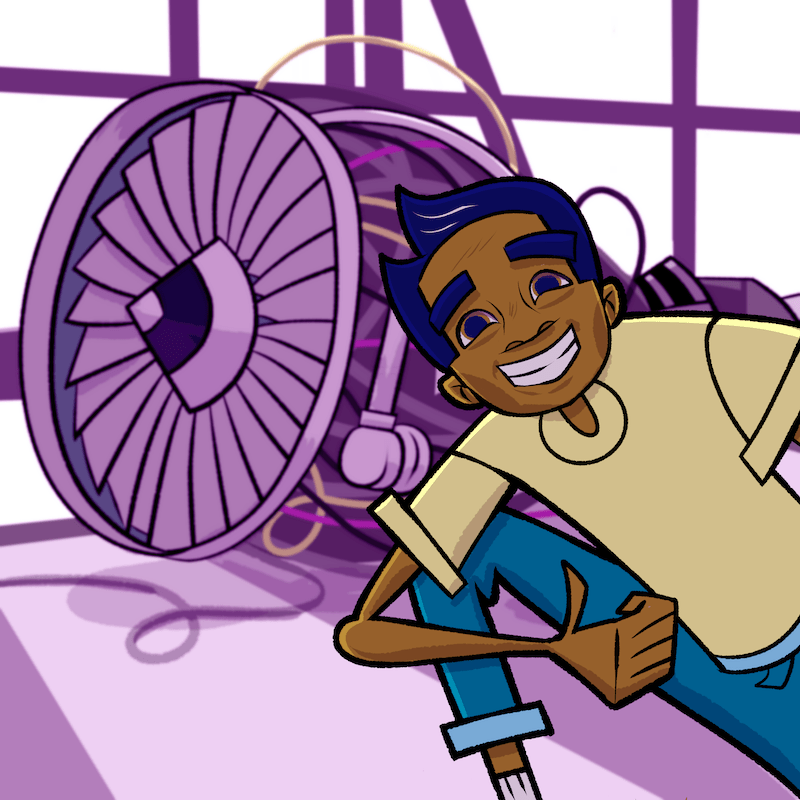
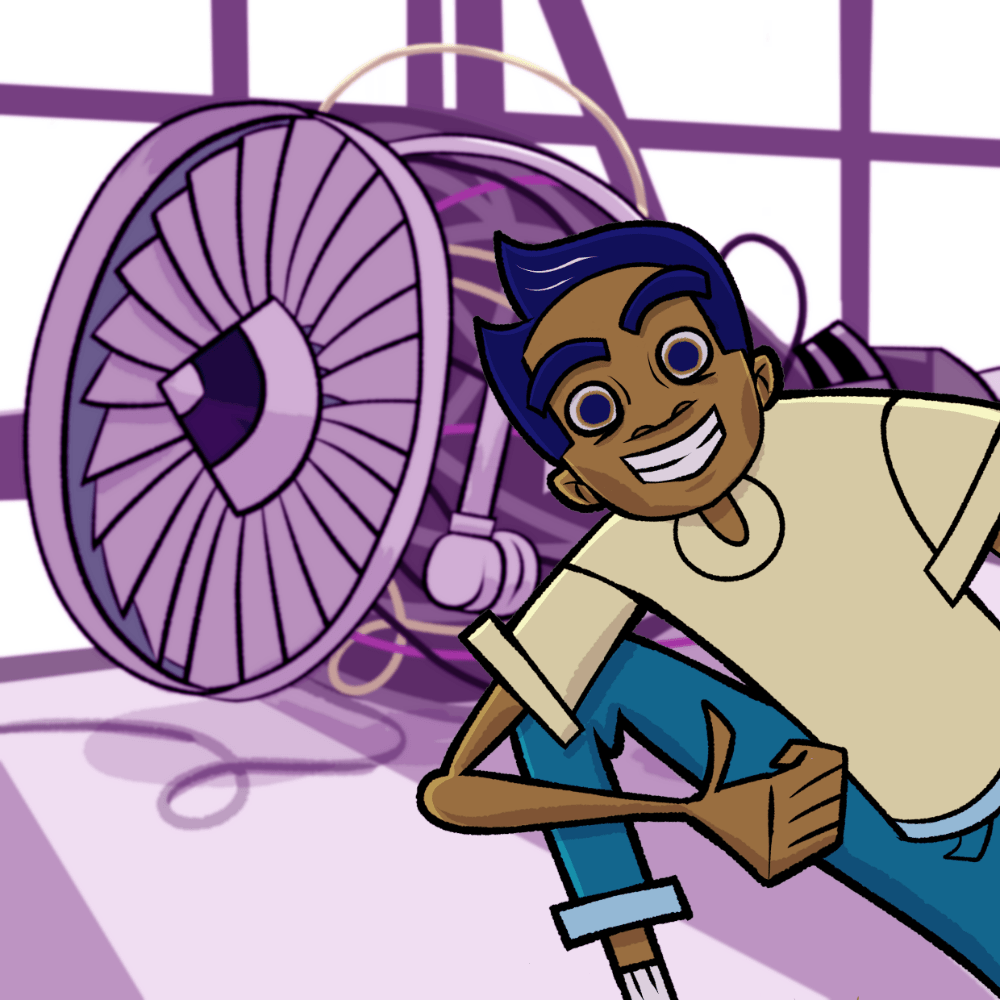
fixed character height misalignment and story errors

diff --git a/src/pages/LandingPage/style.scss b/src/pages/LandingPage/style.scss
@@ -9,7 +9,7 @@
     &--left {
       position: absolute !important;
       left: 0;
-      bottom: 80px;
+      bottom: 100px;
       filter: brightness(100%);
       -webkit-transition: all 0.5s ease;
       transition: all 0.5s ease;
